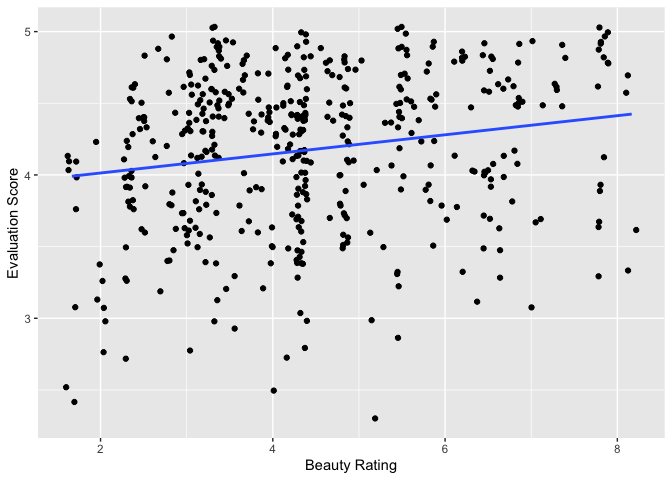
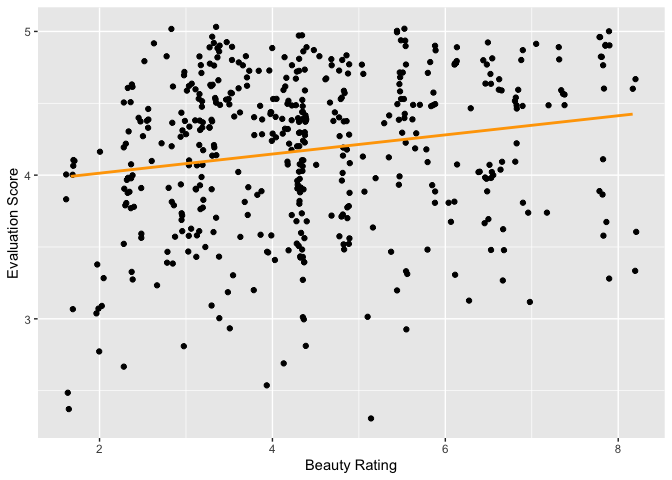
final edits

diff --git a/lab-10.md b/lab-10.md
@@ -114,6 +114,14 @@ tidy(m_bty)
     ## 1 (Intercept)   3.88      0.0761     51.0  1.56e-191
     ## 2 bty_avg       0.0666    0.0163      4.09 5.08e-  5
 
+``` r
+glance(m_bty)$r.squared
+```
+
+    ## [1] 0.03502226
+
+Evaluation score = 3.88 + .067(beauty rating)
+
 For each 1-point increase in beauty rating, the model predicts a
 .067-point increase in evaluation score.
 
@@ -123,7 +131,7 @@ For each 1-point increase in beauty rating, the model predicts a
 evals %>%
   ggplot(aes(x = bty_avg, y = score)) +
   geom_jitter() +
-  geom_smooth(method = "lm", se = FALSE) +
+  geom_smooth(method = "lm", se = FALSE, color = "orange") +
   labs(x = 'Beauty Rating',
        y = 'Evaluation Score')
 ```
@@ -136,20 +144,20 @@ evals %>%
   in evaluation score for each 1-point increase in beauty rating.
 - The predicted evaluation score for a professor with a beauty rating of
   0 is 3.88. In context, I don’t think this value is particularly
-  meaningful. I believe that beauty ratings ranged from 1-10, in which
-  case a rating of 0 would not be possible in our dataset.
+  meaningful. The beauty ratings ranged from 1-10, so a rating of 0
+  would not be possible in our dataset.
 - The R-square value is .035, meaning that beauty ratings explain 3.5%
   of the variance in evaluation scores. Overall, it seems that a
   professor’s attractiveness is not especially influential in student
   evaluations.
 - At this stage, leaving the shading on the plot may lead someone to
   overstate how well the model fits the data. By looking at the line
-  only, it is easier to where the model does not match up with the
+  only, it is easier to see where the model does not match up with the
   actual data.
 
 # Part 3: Linear regression with a categorical predictor
 
-\##Exercise 1
+## Exercise 1
 
 ``` r
 m_gen <- lm(score ~ gender, data = evals)
@@ -163,11 +171,13 @@ tidy(m_gen)
     ## 2 gendermale     0.142    0.0508      2.78 0.00558
 
 The reference level for gender is female. The model predicts that, on
-average, male professors’ evaluation ratings will be .14 points higher
-than female professors’ evaluation ratings.
+average, male professors’ evaluation scores will be .14 points higher
+than female professors’ evaluation scores.
 
-Predicted evaluation score for female professor = 4.09 (intercept)
-Predicted evaluation score for male professor = 4.23 (intercept + slope)
+Predicted mean evaluation score for female professor = 4.09 (intercept)
+
+Predicted mean evaluation score for male professor = 4.23 (intercept +
+slope)
 
 ## Exercise 2
 
@@ -312,8 +322,8 @@ glance(m_bty_gen)$adj.r.squared
 
 ## Exercise 1
 
-The coefficient for beauty increased slightly and the associated p-value
-decreased after adding gender as a predictor.
+The coefficient for beauty rating increased slightly and the associated
+p-value decreased after adding gender as a predictor.
 
 ## Exercise 2
 
@@ -345,7 +355,7 @@ tidy(m_bty_rank)
   .07-point increase in evaluation score.
 
 - Holding beauty rating constant, tenure-track professors are predicted
-  to have evaluation scores .016 points lower than teaching professors.
+  to have evaluation scores .16 points lower than teaching professors.
 
 # Part 5: The search for the best model
 
@@ -370,10 +380,10 @@ tidy(m_cls_profs)
     ## 2 cls_profssingle  -0.0292    0.0534    -0.547   0.585
 
 ``` r
-glance(m_cls_profs)$adj.r.squared
+glance(m_cls_profs)$r.squared
 ```
 
-    ## [1] -0.0015192
+    ## [1] 0.0006485905
 
 ## Exercise 3
 
@@ -456,15 +466,15 @@ Predicted eval score = 3.45 + .20(ethnicity) + .18(gender) -
 ## Exercise 7
 
 A professor at UT Austin with a high evaluation score would be a young,
-white, male, English-speaking professor teaching a one-credit class with
-a high percentage of students who completed the course evaluation and a
-high beauty rating.
+non-minority, male, English-speaking professor teaching a one-credit
+class with a high percentage of students who completed the course
+evaluation and a high beauty rating.
 
 ## Exercise 8
 
 I would not be entirely comfortable with generalizing these results to
-other universities, the makeup of the student body varies widely across
+other universities. The makeup of the student body varies widely across
 different universities, which would likely influence how students
 evaluate their professors. For example, given that UT Austin is a large
 state university, the results might not apply to a smaller liberal arts
-school.
+school if students had different course/professor preferences.
